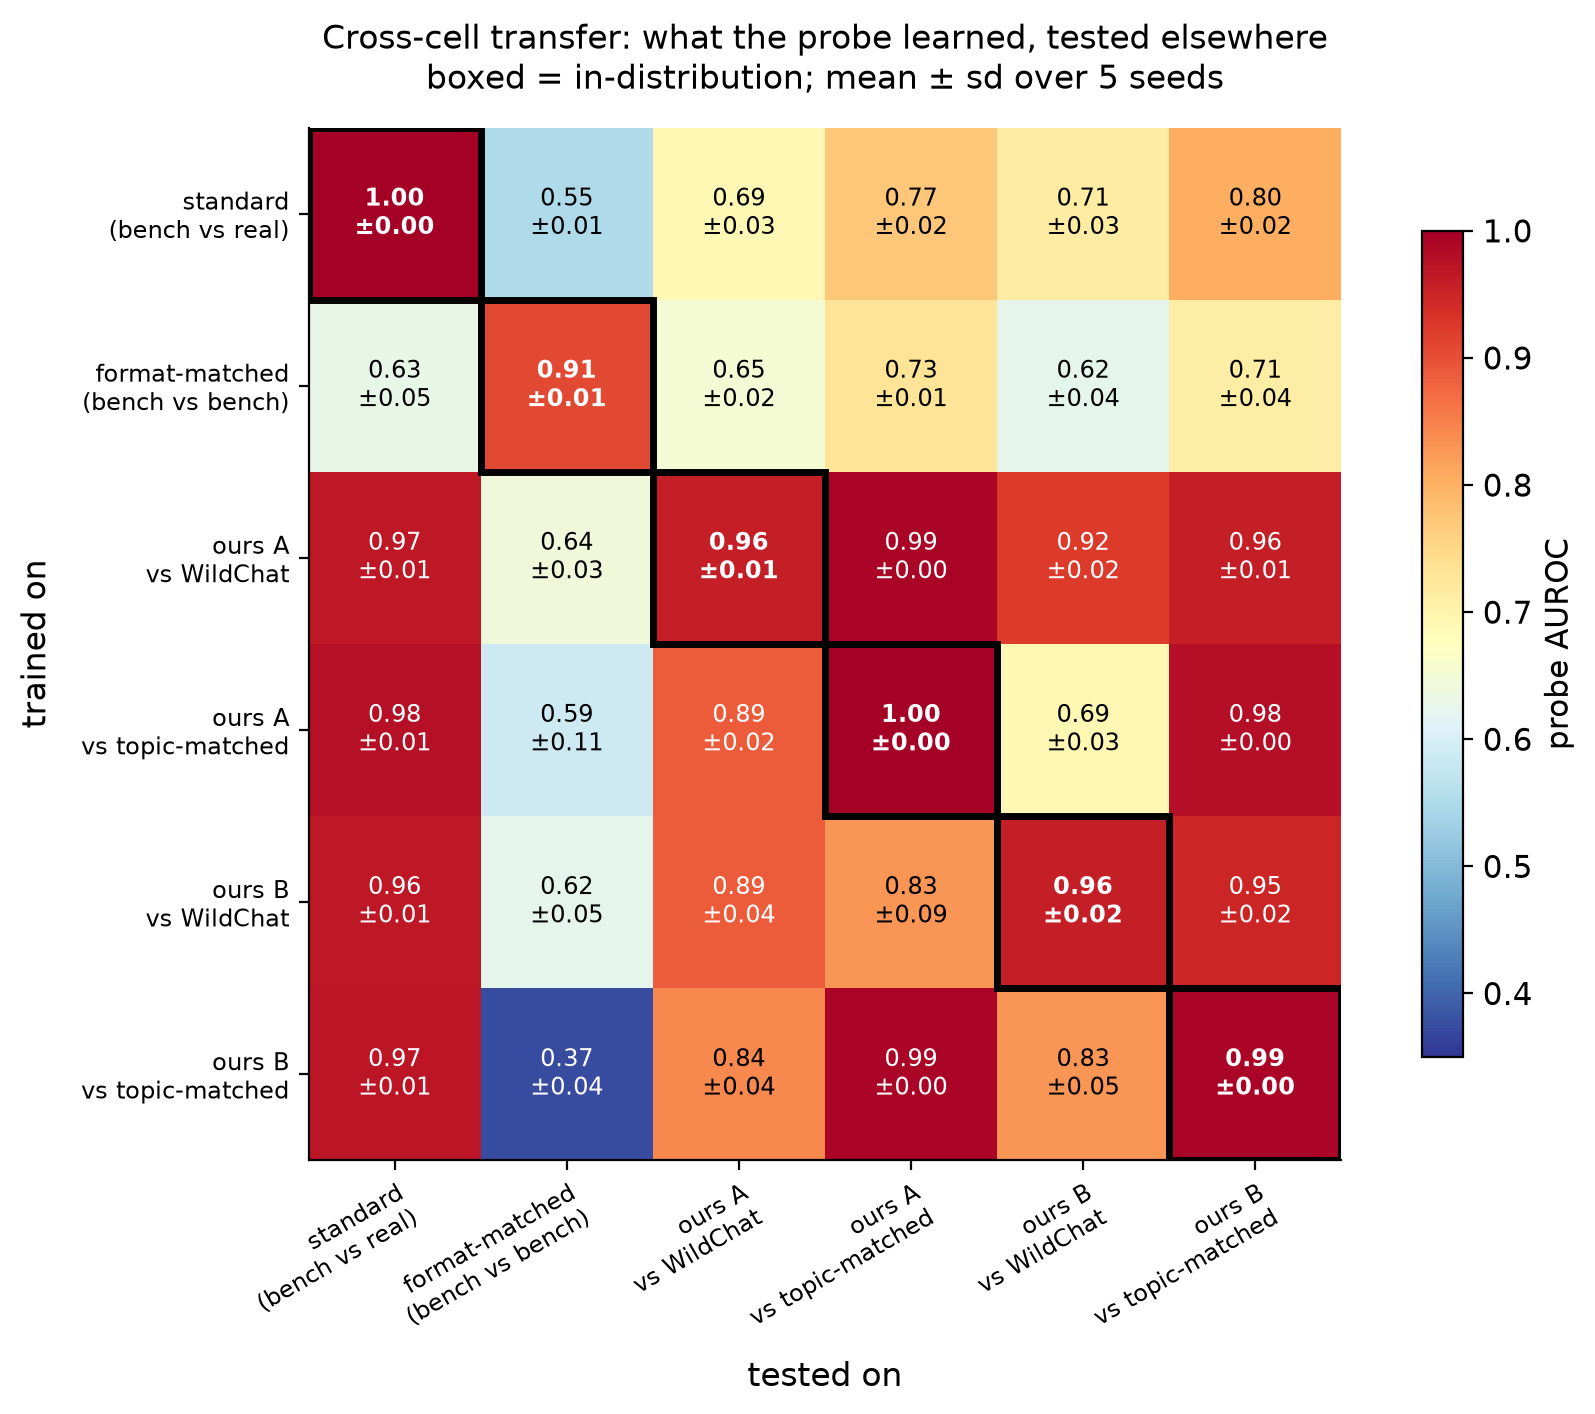
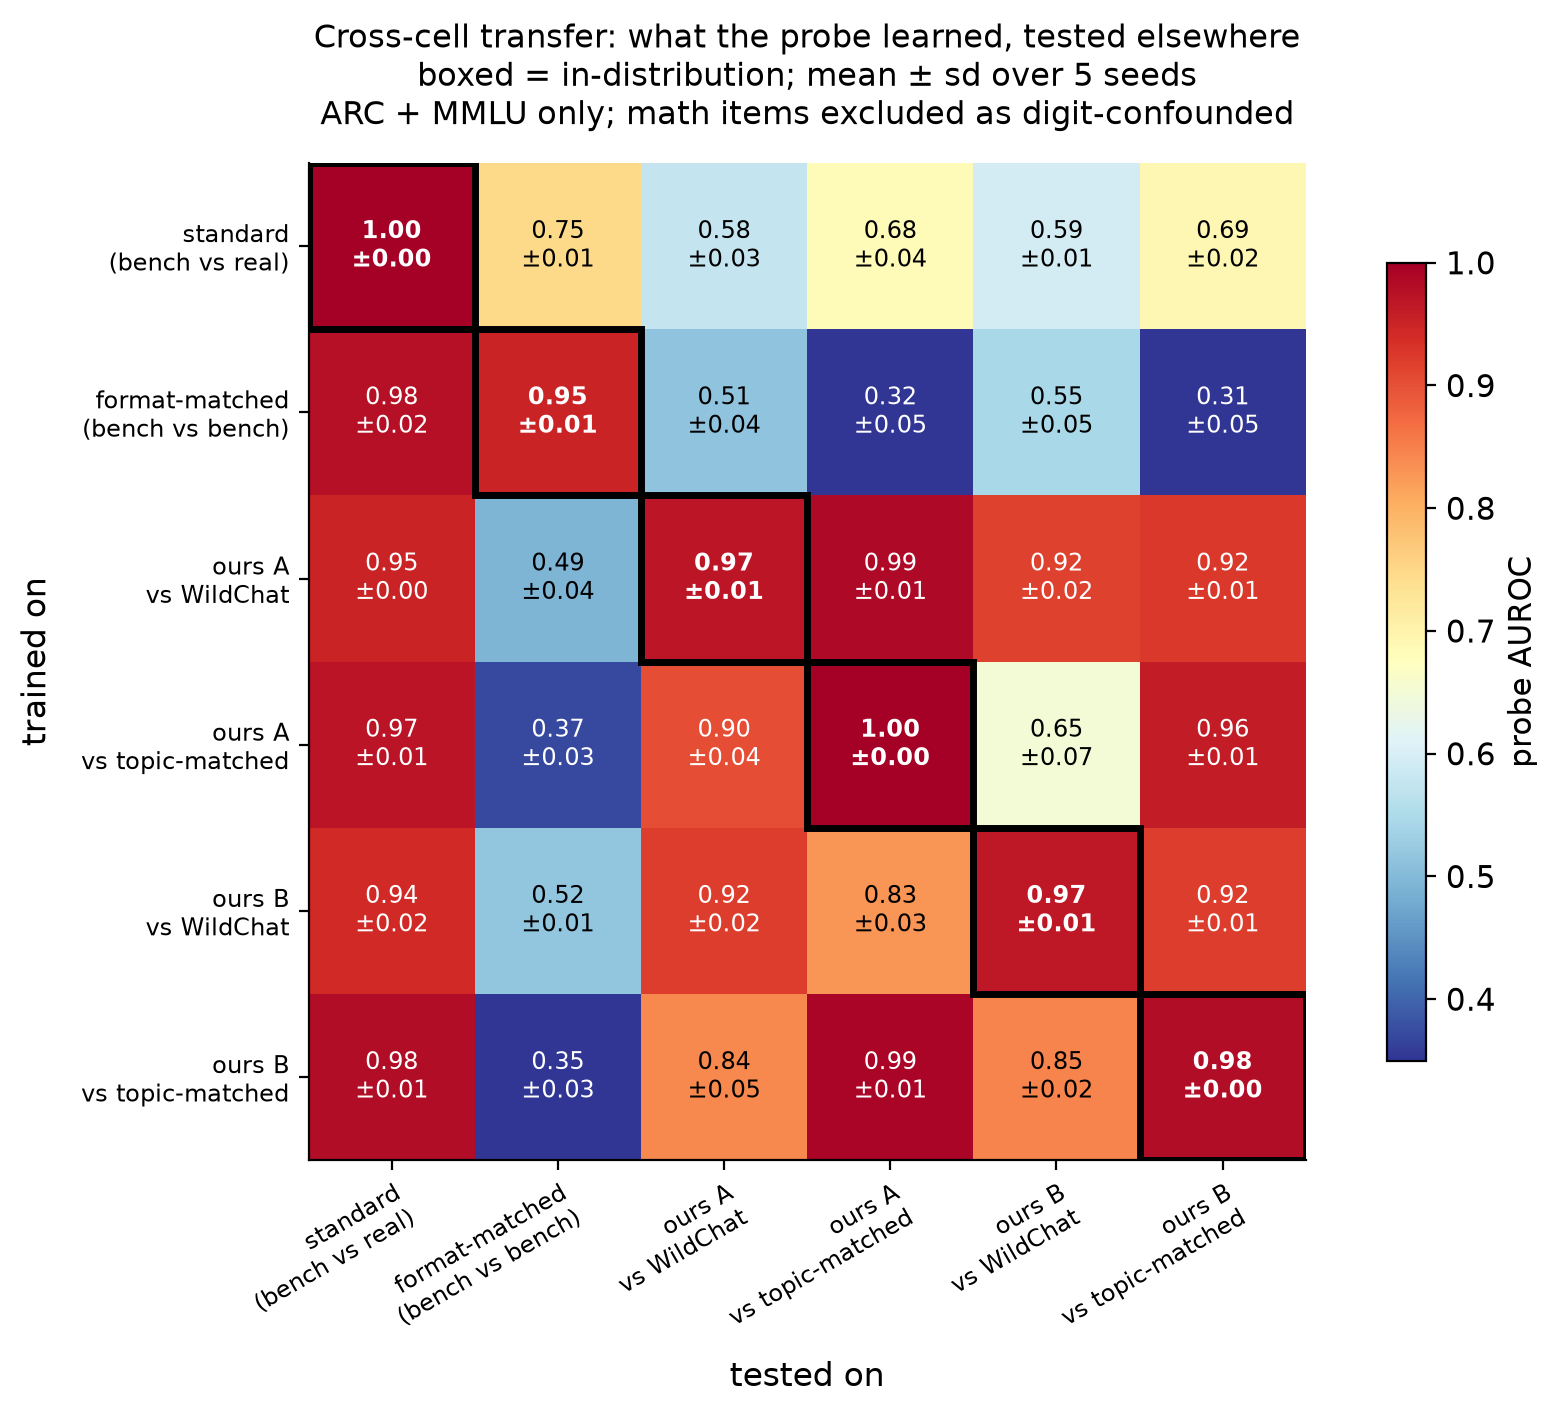
Math-free figures as headline; README + slice-3 spec lessons
Figures default to the math-free run with the source caveat printed on each;
--all-sources regenerates the contaminated version for comparison. README
carries the slice-2 result. PLAN gains the six slice-2b lessons the slice-3
dataset spec must respect, chiefly per-item rather than pool-level matching.

diff --git a/scripts/make_2b_figures.py b/scripts/make_2b_figures.py
@@ -5,14 +5,21 @@ Produces three PNGs in figures/ (committed, so teammates can use them):
   fig4_asymmetry.png        - theirs->ours vs ours->theirs, the headline
   fig5_probe_vs_bow.png     - probe minus bag-of-words margin per training set
 
-Numbers are read from results/s2b_*_transfer_multiseed.json, so the figures
+Numbers are read from the multi-seed transfer results file, so the figures
 cannot drift from the run. No prompt text is used.
 
+DEFAULT SOURCE IS THE MATH-FREE RUN (arc + mmlu). GSM8K is excluded because
+digit density alone separates its eval items from their deploy counterparts at
+0.949 — identical to the probe's score there — so those items measure numeral
+counting, not evaluation recognition. See CLAUDE.md, slice 2b results.
+
 Usage: .venv\\Scripts\\python scripts/make_2b_figures.py
+       .venv\\Scripts\\python scripts/make_2b_figures.py --all-sources
 """
 
 from __future__ import annotations
 
+import argparse
 import json
 from pathlib import Path
 
@@ -22,9 +29,18 @@ matplotlib.use("Agg")
 import matplotlib.pyplot as plt
 import numpy as np
 
+ap = argparse.ArgumentParser()
+ap.add_argument("--all-sources", action="store_true",
+                help="use the gsm8k-contaminated run instead of the math-free one")
+cli = ap.parse_args()
+
 OUT = Path("figures")
 OUT.mkdir(exist_ok=True)
-RESULTS = Path("results/s2b_Llama-3.1-8B-Instruct_transfer_multiseed.json")
+SUFFIX = "" if cli.all_sources else "_mathfree"
+RESULTS = Path(f"results/s2b_Llama-3.1-8B-Instruct_transfer_multiseed{SUFFIX}.json")
+SOURCE_NOTE = ("all sources incl. gsm8k (contaminated)" if cli.all_sources
+               else "ARC + MMLU only; math items excluded as digit-confounded")
+FIG_SUFFIX = "_allsources" if cli.all_sources else ""
 
 LABELS = {
     "devb_standard": "standard\n(bench vs real)",
@@ -79,10 +95,10 @@ for i in range(len(pairs)):
                                        edgecolor="black", lw=2.5))
 fig.colorbar(im, ax=ax, label="probe AUROC", shrink=0.8)
 ax.set_title("Cross-cell transfer: what the probe learned, tested elsewhere\n"
-             f"boxed = in-distribution; mean ± sd over {n_seeds} seeds",
-             fontsize=12, pad=14)
+             f"boxed = in-distribution; mean ± sd over {n_seeds} seeds\n"
+             f"{SOURCE_NOTE}", fontsize=11.5, pad=14)
 fig.tight_layout()
-fig.savefig(OUT / "fig3_transfer_matrix.png", bbox_inches="tight")
+fig.savefig(OUT / f"fig3_transfer_matrix{FIG_SUFFIX}.png", bbox_inches="tight")
 plt.close(fig)
 
 # ---------------------------------------------------------------- fig 4
@@ -125,10 +141,10 @@ axb.set_ylim(0.3, 1.1)
 axb.legend(fontsize=9, loc="lower center", frameon=False, ncol=1)
 axb.set_title("Same target cell, two training sets", fontsize=11.5, pad=10)
 
-fig.suptitle("Realistic training data generalizes; benchmark training data does not",
-             fontsize=13, y=1.0)
+fig.suptitle("Realistic training data generalizes; benchmark training data does not\n"
+             f"({SOURCE_NOTE})", fontsize=12.5, y=1.04)
 fig.tight_layout()
-fig.savefig(OUT / "fig4_asymmetry.png", bbox_inches="tight")
+fig.savefig(OUT / f"fig4_asymmetry{FIG_SUFFIX}.png", bbox_inches="tight")
 plt.close(fig)
 
 # ---------------------------------------------------------------- fig 5
@@ -152,9 +168,10 @@ ax.set_yticks(range(len(pairs)),
 ax.axvline(0, color="black", lw=1)
 ax.set_xlabel("probe advantage over bag-of-words  (mean |AUROC−0.5| difference)")
 ax.set_title("Only the standard confounded setup makes activations\n"
-             "worse than word counts at generalizing", fontsize=12, pad=12)
+             f"worse than word counts at generalizing\n({SOURCE_NOTE})",
+             fontsize=11.5, pad=12)
 fig.tight_layout()
-fig.savefig(OUT / "fig5_probe_vs_bow.png", bbox_inches="tight")
+fig.savefig(OUT / f"fig5_probe_vs_bow{FIG_SUFFIX}.png", bbox_inches="tight")
 plt.close(fig)
 
-print("wrote fig3_transfer_matrix.png, fig4_asymmetry.png, fig5_probe_vs_bow.png")
+print(f"wrote figs with suffix {FIG_SUFFIX!r} from {RESULTS.name}")

diff --git a/README.md b/README.md
@@ -12,18 +12,46 @@ Chaudhary.
 
 ## Status
 
-Slice 1 (the replication cell) is done, including surface baselines. On
-Llama-3.1-8B the eval-vs-deployment probe reaches AUROC 0.994 at layer 4 of 32,
-reproducing the prior single-turn result, and length is ruled out (0.37–0.45).
+Slices 1 and 2 are done on Llama-3.1-8B. Slice 3 (multi-turn) is next.
 
-But the surface baselines nearly match it. A classifier reading only structure —
-option markers, digits, punctuation, no words at all — reaches 0.9675, and
-bag-of-words reaches 0.9517, on the same held-out split. The probe's margin over
-the best surface baseline is +0.027 in strength, within noise at n=120.
+**Slice 1 — the replication, and why it is not enough.** The probe reaches
+AUROC 0.994 at layer 4 of 32, reproducing the prior single-turn result, and
+length is ruled out (0.37–0.45). But a classifier reading only structure — no
+words at all — reaches 0.9675 and bag-of-words 0.9517 on the same split. The
+probe's margin over the best surface baseline is +0.027, within noise at
+n=120. The obvious-eval cell is confounded: it cannot separate "the model
+recognizes evaluation" from "these prompts are shaped like tests."
 
-So the obvious-eval cell is confounded: it cannot separate "the model recognizes
-evaluation" from "these prompts are shaped like tests." That is the empirical
-case for the format-matched arm, which is next. See `CLAUDE.md` for details.
+**Slice 2 — format-matched cells and cross-cell transfer.** We replicated
+Devbunova's 2×2 on our machinery (their standard probe calls format-transplanted
+deployment prompts "evaluation" 96.0% of the time; they report 94.5%), then
+built four new cells where every prompt is model-authored so authorship cannot
+carry the label, lengths match by construction, and one deploy cell is
+topic-matched to each eval item.
+
+Surface baselines cannot be driven to chance, and we show why: the residual
+signal is *speech act* — an impersonal question with a canonical answer versus
+a first-person request for help is what the eval/deploy distinction is. So the
+decisive test is cross-cell **transfer**: fit on one cell pair, freeze, score a
+differently-constructed pair, and run the identical test on every baseline.
+
+Headline (ARC+MMLU, 5 seeds; GSM8K excluded because digit density alone scores
+0.949 there, so those items measure numeral counting):
+
+- The probe beats bag-of-words under transfer by **+0.067 ± 0.016**, positive
+  on every seed. Every format-matched training cell gives a positive margin.
+- **Training on the standard confounded contrast is the sole exception**
+  (−0.086 ± 0.034, win rate 12%): on the setup the field actually uses,
+  activations generalize *worse* than word counts.
+- The direction travels one way. Trained on our realistic cells it scores
+  0.949 on the standard benchmark cell; trained on the standard cell it scores
+  0.578 on ours, barely above chance.
+- Honest limit: benchmark format on *both* sides with only content differing
+  (`bench_eval` vs `bench_deploy_rewritten`) defeats every direction we can
+  learn — 0.31–0.55, at or below chance. That is where content-only eval
+  recognition would have to appear, and it does not.
+
+Figures in `figures/`; full detail and caveats in `CLAUDE.md`.
 
 ## Approach in one paragraph
 

diff --git a/PLAN.md b/PLAN.md
@@ -135,6 +135,34 @@ Devbunova confirmed with the proxy weakness removed.
 Update paper Sections 4-5 with real numbers, figures (per-layer curves per
 cell, transfer matrix heatmap), CLAUDE.md, README.
 
+## Lessons from slice 2b that the slice-3 dataset spec MUST carry
+
+These cost real time in slice 2b; do not rediscover them.
+
+1. **Match surface features per item, not per pool.** We matched digit density
+   between the benchmark pool and the WildChat pool (0.0124 vs 0.0123, looked
+   fine) but the synthetic counterpart cell was written with no digit
+   requirement and came out 13x lower on maths items. Digit density alone then
+   scored 0.949 there — identical to the probe. Every surface feature we claim
+   to match must be checked *within each source and each cell*, not on the
+   aggregate.
+2. **Freeze dataset inputs before spawning writers.** Regenerating batch files
+   mid-run made one writer generate against a stale snapshot; its output was
+   discarded.
+3. **Audit writer output; do not trust writer self-reports.** Every writer
+   reported "0% situational framing in style A" and matched lengths. Both were
+   true. What they missed was that length targets drawn from the wrong
+   distribution had forced style A to acquire personal framing in the first
+   place — visible only by comparing cells, not within one batch.
+4. **Model-authored text is separable from real user text** (format 0.93 / BoW
+   0.91) even when its content is pure deployment. If any cell is authored,
+   every cell must be.
+5. **Do not expect surface baselines at chance.** Speech act is the label.
+   Gate length and format; report lexical baselines as the bar, and settle the
+   question with transfer.
+6. **Report per-source.** The aggregate hid that the whole margin came from
+   maths items with a numeral shortcut.
+
 ## Slice 3 — multi-turn (the decisive cell)
 
 Goal: the axis nobody has tested. Same 2x2 logic, but conversations.
